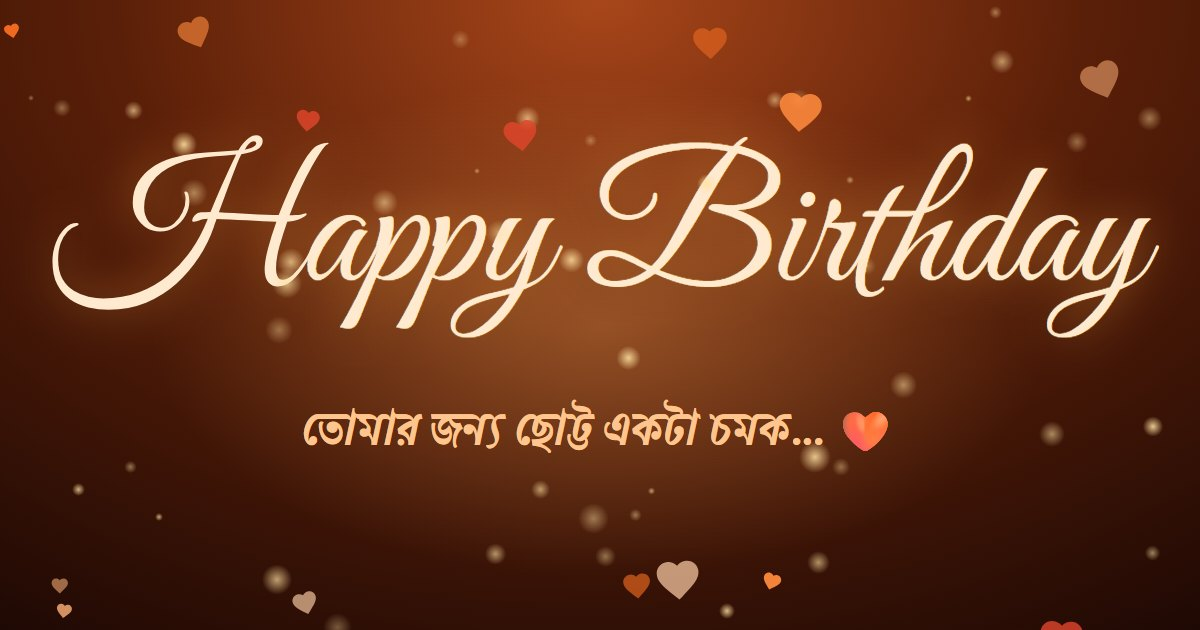
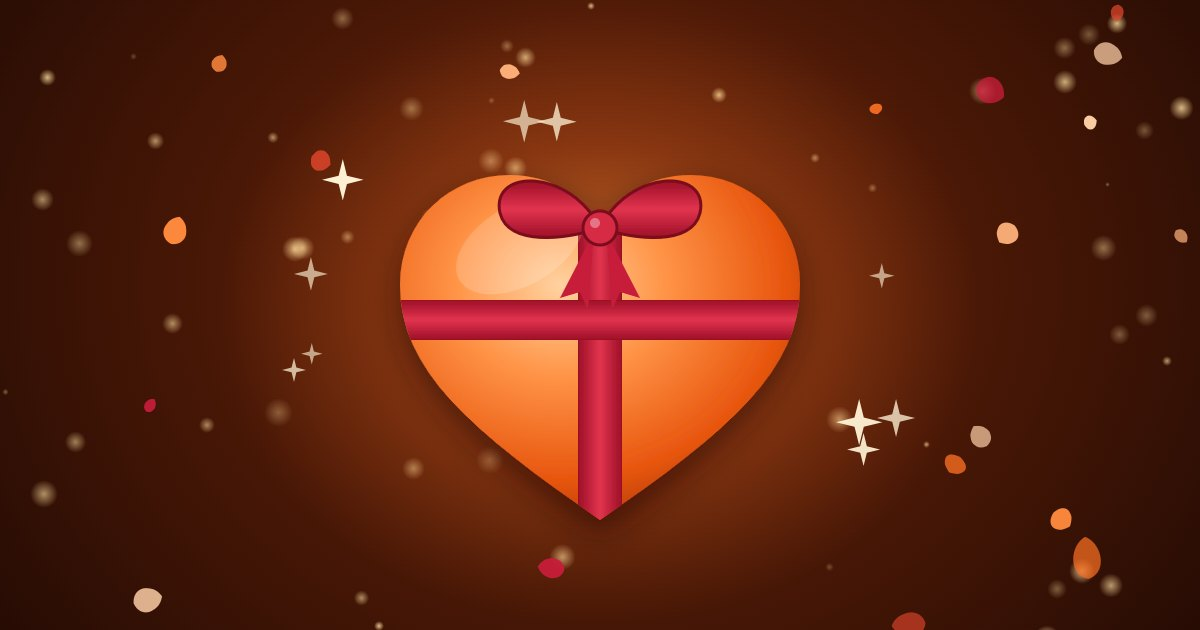
লিংক-কার্ড: লেখার বদলে প্রতীক, নতুন ছবি

diff --git a/index.html b/index.html
@@ -4,12 +4,12 @@
 <meta charset="utf-8">
 <meta name="viewport" content="width=device-width,initial-scale=1,viewport-fit=cover">
 <title>Happy Birthday 🧡</title>
-<meta name="description" content="তোমার জন্য ছোট্ট একটা চমক… খুলে দেখো।">
+<meta name="description" content="🧡 🌹 ✨ 🎁">
 <meta name="robots" content="noindex, nofollow">
 <meta property="og:type" content="website">
 <meta property="og:url" content="https://m-ashraful.github.io/happy-birthday/">
 <meta property="og:title" content="Happy Birthday 🧡">
-<meta property="og:description" content="তোমার জন্য ছোট্ট একটা চমক… খুলে দেখো।">
+<meta property="og:description" content="🧡 🌹 ✨ 🎁">
 <meta property="og:image" content="https://m-ashraful.github.io/happy-birthday/og.jpg">
 <meta property="og:image:width" content="1200">
 <meta property="og:image:height" content="630">
